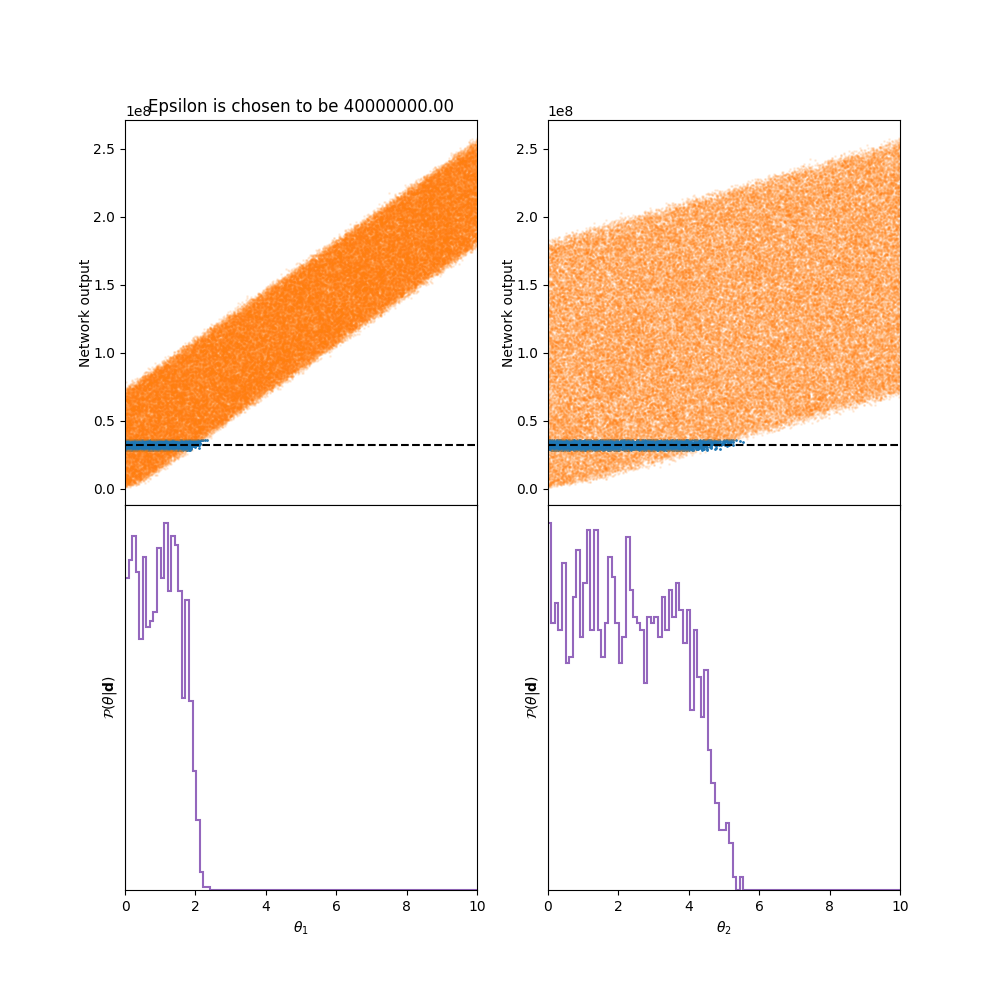
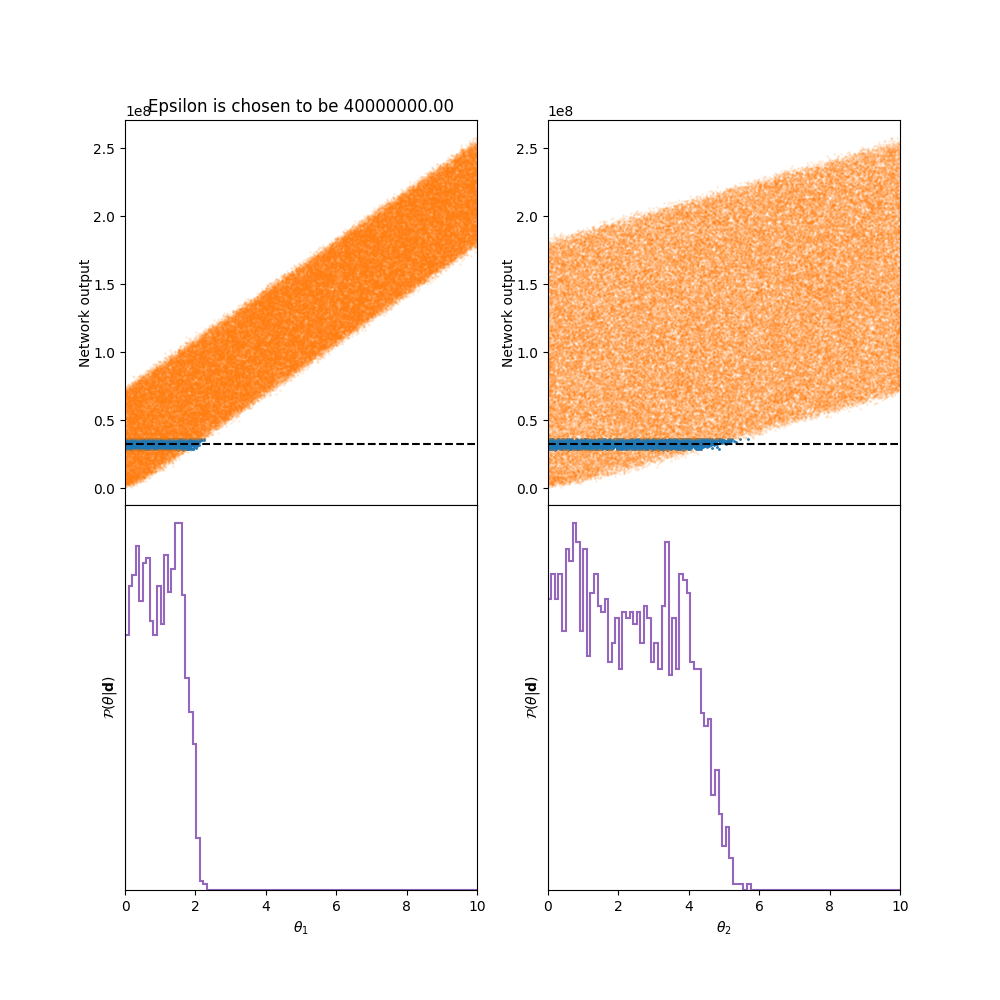
added a hack for when the variance < 0

diff --git a/learning_purposes/summarizing_gaussian_signals.py b/learning_purposes/summarizing_gaussian_signals.py
@@ -1,3 +1,5 @@
+# coding=utf-8
+
 '''
 Reproducing the Summarising Gaussian Signals in the IMNN paper
 Trying to maximize the Fisher information by finding a non-linear summary
@@ -23,8 +25,22 @@ import tqdm
 
 tf.reset_default_graph() # start fresh
 
+np.random.seed(123) # for reproducibility
 
 def generate_data(theta, train=False):
+	'''
+	Fiducial parameter is NOT passed as a list for testing purposes
+
+	Returns: array of shape (n_s*n_train,input_shape) draws from norm dist
+	'''
+	if train:
+		return np.moveaxis(np.random.normal(0., np.sqrt(theta[0])
+			, [1] + input_shape + [len(theta)]), -1, 0)
+	else: 
+		return np.moveaxis(np.random.normal(0., np.sqrt(theta[0])
+			, input_shape + [len(theta)]), -1, 0)
+
+def generate_data_ABC(theta, train=False):
 	'''
 	Fiducial parameter is passed as a list so many simulations can be made
 	at once
@@ -96,6 +112,8 @@ def plot_data():
 	ax.set_xticks([])
 	ax.set_ylabel("Data amplitude");
 	plt.show()
+
+# plot_data()
 
 def plot_derivatives():
 	'''
@@ -194,10 +212,10 @@ def plot_variables():
 	ax[4].set_ylabel('μ')
 	ax[4].set_xlabel('Number of epochs')
 	ax[4].set_xlim([0, len(epochs)])
-	# plt.savefig('./Figures/variables_vs_epochs.png')
-	plt.show()
+	plt.savefig('./Figures/variables_vs_epochs_seed123_2.png')
+	# plt.show()
 
-# plot_variables()
+plot_variables()
 # ===============================================================
 # Approximate Bayesian computation with the calculated summary:
 
@@ -235,7 +253,7 @@ def ABC():
 	# sampled parameter values, summary of real data, summaries of generated data
 	# distances of generated data to real data, Fisher info of real data
 	theta, summary, s, ro, F = n.ABC(real_data = real_data, prior = [0, 10]
-		, draws = 100000, generate_simulation = generate_data
+		, draws = 100000, generate_simulation = generate_data_ABC
 		, at_once = True, data = data)
 	#at_once = False will create only one simulation at a time
 
@@ -290,7 +308,7 @@ def PMC_ABC():
 	# W = weighting of samples, total_draws = total num draws so far
 	theta_, summary_, ro_, s_, W, total_draws, F = n.PMC(real_data = real_data
 		, prior = [0, 10], num_draws = 1000, num_keep = 1000
-		, generate_simulation = generate_data, criterion = 0.1, at_once = True
+		, generate_simulation = generate_data_ABC, criterion = 0.1, at_once = True
 		, samples = None, data = data)
 
 	def plot():
@@ -360,5 +378,5 @@ ax.set_xlim([0, 10])
 ax.set_xlabel('θ')
 ax.set_ylabel('$\\mathcal{P}(\\theta|{\\bf d})$')
 ax.set_yticks([])
-# plt.savefig('./Figures/likelihoods.png')
+plt.savefig('./Figures/likelihoods_seed123_2.png')
 # plt.show()

diff --git a/learning_purposes/abcpmc_2D_gaussian.py b/learning_purposes/abcpmc_2D_gaussian.py
@@ -103,6 +103,10 @@ def generate_data_quick(theta):
 	used with the abcpmc module
 	"""
 	theta1, theta2 = theta 
+	if (theta1 < 0)  or (theta2 < 0):
+		# If theta1 or theta2 is negative return garbage
+		return np.asarray([1e9,1e9]*100).reshape(100,1,2)
+	#print (theta1,theta2)
 	mean = [0,0] 
 	# no covariance  
 	cov = [[theta1,0],  # x_0 has variance 1, 
@@ -135,13 +139,13 @@ def MSE(x, y):
 
 ''' Setup '''
 # 'Best' guess about the distribution
-prior = abcpmc.GaussianPrior(mu=[0, 0], sigma=np.eye(2) * 1.6)
+prior = abcpmc.TophatPrior([0.0,1.0], [2.0,3.0])
 
 # As threshold for accepting draws from the prior we use the alpha-th percentile
 # of the sorted distances of the particles of the current iteration
 alpha = 75
 T = 20 # sample for T iterations
-eps_start = 10.0 # sufficiently high starting threshold (like 5x the variability or more)
+eps_start = 20.0 # sufficiently high starting threshold (like 5x the variability or more)
 eps = abcpmc.ConstEps(T, eps_start)
 
 
@@ -231,15 +235,15 @@ def postprocessing(pools):
 # Pools fail if we dont execute this if statement
 if __name__ == '__main__':
 	# check the variability of the distances at the correct parameters
-	distances = [MSE(data, generate_data_quick([theta1_fid,theta2_fid])) for _ in range(1000)]
-	sns.distplot(distances, axlabel="distances", )
-	plt.title("Variablility of distance from simulations")
-	plt.savefig('./Figures/multivariate_gaussian/variability_of_distances.png')
-	plt.show()
-	plt.close()
+	#distances = [MSE(data, generate_data_quick([theta1_fid,theta2_fid])) for _ in range(1000)]
+	#sns.distplot(distances, axlabel="distances", )
+	#plt.title("Variablility of distance from simulations")
+	#plt.savefig('./Figures/multivariate_gaussian/variability_of_distances.png')
+	#plt.show()
+	#plt.close()
 	# Shows variability is between roughly 1 sigma upper/lower bounds: 2.5 and 3.5 
 
-	threads = 1
+	threads = 10
 	
 	# Create an instance of the sampler. 5000 particles
 	# The sampler HAS to be created in the __main__ thread else multiprocessing

diff --git a/learning_purposes/testing_randomfield.py b/learning_purposes/testing_randomfield.py
@@ -5,16 +5,17 @@ I have tried to get randomfield to work on several python versions.
 Python3.6, Python3.4 and Python3.3 
 These all failed.
 
-Python 2.7.15 seems to work. However this is not ideal as 
+Python 2.7.15 (and 2.7.13) seems to work. However this is not ideal as 
 "Python 3.x is the present and future of the language" -- python people.
 
-But more importantly, the IMNN code is run using Python-3.6.6
+But more importantly, the IMNN code is developed using Python-3.6.6
 So this might cause conflicts down the road..
 
 '''
 
 from __future__ import print_function, division
-
+import sys
+sys.path.insert(-1,'/data1/osinga/anaconda2')
 import randomfield
 import numpy as np
 import matplotlib.pyplot as plt
@@ -35,7 +36,8 @@ def test_generate():
     # Generate a delta-field realization
     # It is calculated at z=0, sampled from a distribution with mean zero
     # and k-space variance proportional to the smoothed power spectrum
-    data = generator.generate_delta_field(seed=seed,show_plot=True)
+    data = generator.generate_delta_field(seed=seed,show_plot=False
+        ,save_plot_name='./Figures/generated_delta_field_slice.png')
     # If show_plot=True then also shows a y,z slice 
 
     return generator, data
